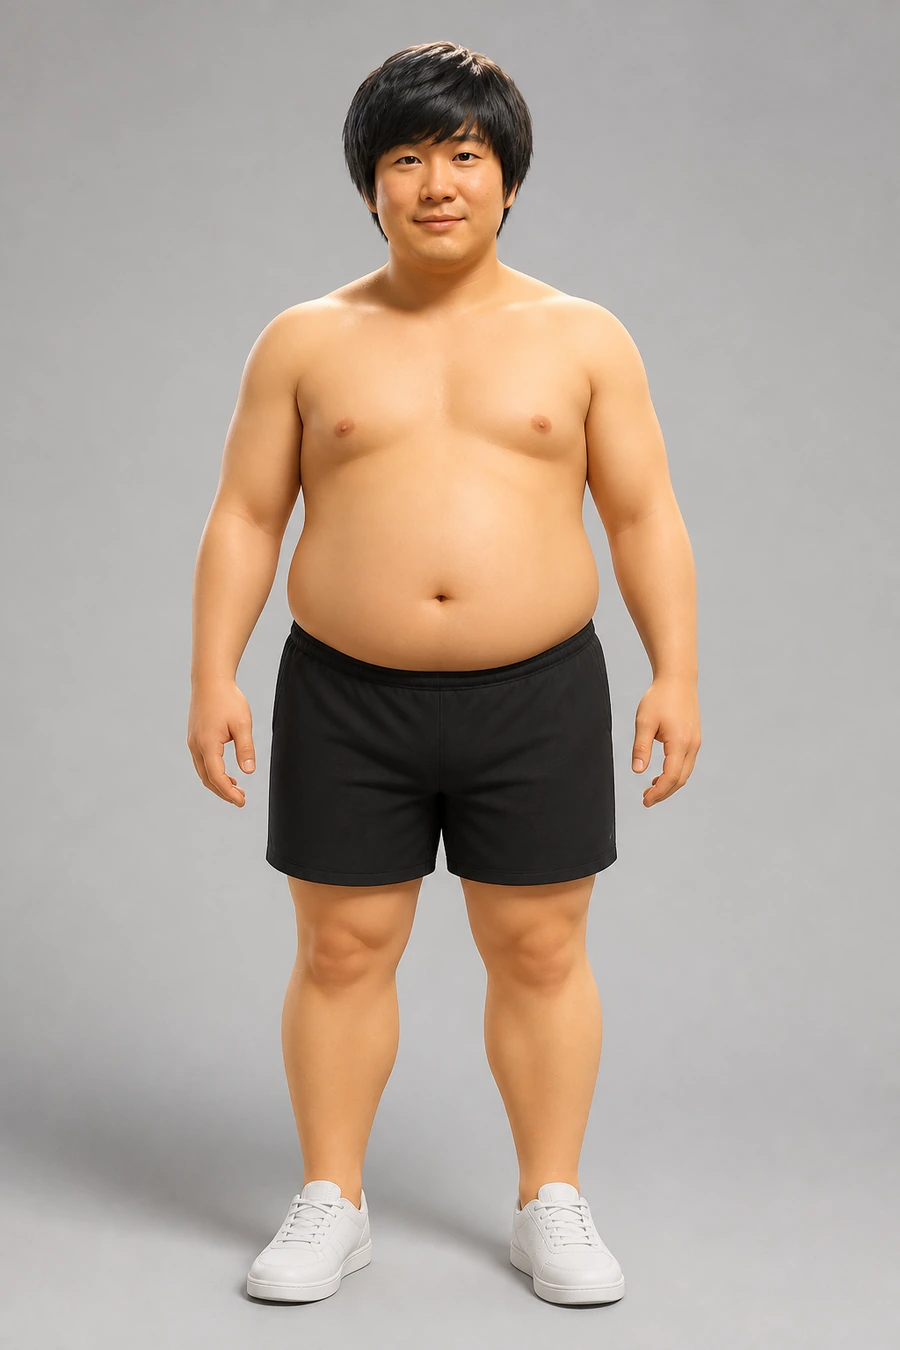
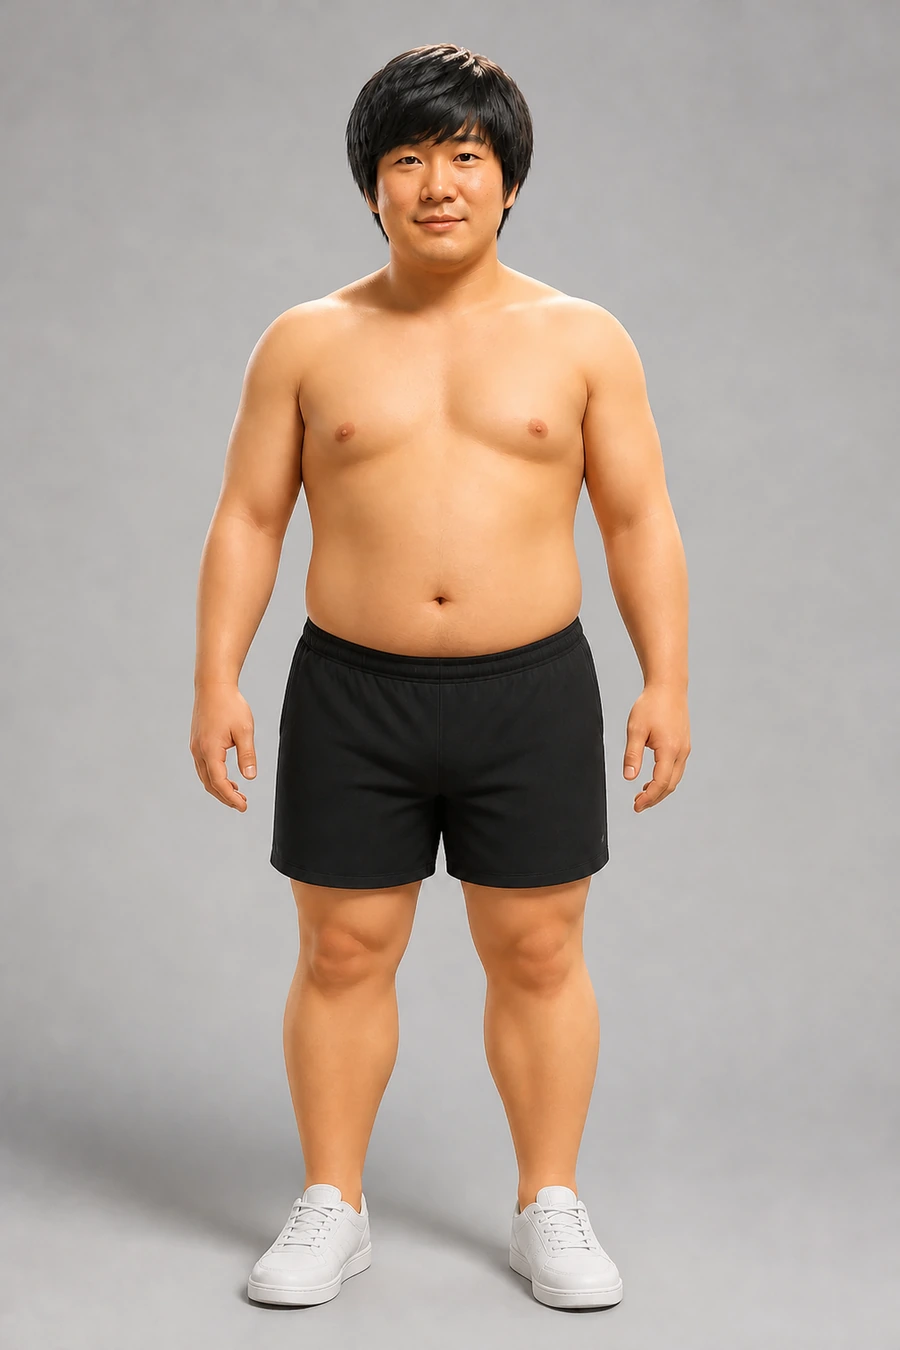
체형 이미지를 11/26 측정(85.6kg·29.2%) 기준으로 교체, 캐시 버전 갱신

diff --git a/index.html b/index.html
@@ -11,7 +11,7 @@
 <link rel="apple-touch-icon" href="assets/apple-touch-icon.png" />
 <meta name="apple-mobile-web-app-capable" content="yes" />
 <meta name="apple-mobile-web-app-status-bar-style" content="black-translucent" />
-<link rel="stylesheet" href="styles.css?v=68" />
+<link rel="stylesheet" href="styles.css?v=69" />
 </head>
 <body>
 <div class="app">
@@ -35,7 +35,7 @@
       <div class="stage" id="stage" data-phase="before">
         <div class="figure" id="figure">
           <img class="figure-ambient" src="assets/body-current.webp" alt="" aria-hidden="true" draggable="false" />
-          <img class="figure-img before" src="assets/body-current.webp" alt="9/21·10/26·11/26 체형 이미지" draggable="false" />
+          <img class="figure-img before" src="assets/body-current.webp" alt="11/26 실측 체형 이미지" draggable="false" />
           <img class="figure-img after" id="figure-goal" src="assets/body-goal.webp" alt="목표 체형 이미지" draggable="false" />
         </div>
         <div class="stage-overlay">
@@ -89,7 +89,7 @@
           <div class="compare-clip" id="compare-clip">
             <img class="compare-img before" src="assets/body-current.webp" alt="현재 체형 이미지" draggable="false" />
           </div>
-          <div class="compare-tag before" id="tag-before">비포 87.7kg <em>→</em></div>
+          <div class="compare-tag before" id="tag-before">비포 85.6kg <em>→</em></div>
           <div class="compare-tag after" id="tag-after"><em>←</em> 애프터 75.0kg</div>
           <div class="compare-handle" id="compare-handle"><span></span></div>
         </div>
@@ -166,6 +166,6 @@
 
 <div class="toast" id="toast"></div>
 
-<script type="module" src="app.js?v=68"></script>
+<script type="module" src="app.js?v=69"></script>
 </body>
 </html>

diff --git a/app.js b/app.js
@@ -5,8 +5,8 @@ import { MOVES } from './moves.js';
 
 const HEIGHT_CM = 176;
 const STORE_KEY = 'inbody3d.records.v1';
-const IMG_SOURCE_DATE = '2026-10-26'; // assets/body-current.webp 를 만든 측정일
-const IMG_SOURCE_SHORT = '10/26';
+const IMG_SOURCE_DATE = '2026-11-26'; // assets/body-current.webp 를 만든 측정일
+const IMG_SOURCE_SHORT = '11/26';
 
 const state = {
   mode: 'model',

diff --git a/sw.js b/sw.js
@@ -1,4 +1,4 @@
-const CACHE = 'inbody3d-v8';
+const CACHE = 'inbody3d-v9';
 const IMG = [
   './assets/body-current.webp',
   './assets/body-goal.webp',

diff --git a/README.md b/README.md
@@ -51,12 +51,12 @@ GitHub Pages: https://tommyoon007.github.io/inbody-3d/
 
 - 타임라인의 마지막 실측 기록까지는 `assets/body-current.webp`, 마지막 실측 → 목표 구간에서 `assets/body-goal.webp`가 슬라이더 값에 따라 opacity로 겹쳐집니다 (`app.js`의 `figureProgress()`).
 - 두 이미지는 같은 프레임(900×1350)으로 만들어져 있어 인물 위치가 일치하고, 그래서 크로스페이드가 자연스러운 변신처럼 보입니다.
-- 새 체형 이미지를 만들면 같은 크기(900×1350)·구도로 `assets/body-current.webp`(또는 `body-goal.webp`)를 교체하면 됩니다. 원본 PNG를 WebP로 바꾸려면 `python3 -c "from PIL import Image; Image.open('assets/body-current.png').save('assets/body-current.webp','WEBP',quality=92,method=6)"`.
+- 새 체형 이미지를 만들면 같은 크기(900×1350)·구도로 `assets/body-current.webp`(또는 `body-goal.webp`)를 교체하면 됩니다. 원본 PNG를 WebP로 바꾸려면 `python3 -c "from PIL import Image; Image.open('assets/body-current.png').save('assets/body-current.webp','WEBP',quality=92,method=6)"`. 이미지를 교체하면 `index.html`의 `styles.css`·`app.js` 쿼리 버전과 `sw.js`의 `CACHE` 버전을 올려 캐시를 무효화합니다.
 - 원본 `assets/body-current.png`·`body-goal.png`는 보관용(사이트는 WebP 사용, 두 파일 합계 약 2.6MB → WebP 약 130KB).
 
 ## 파일
 
-- `assets/body-current.webp` — 실측 체형 이미지 (10/26 측정 87.7kg · 29.9% 기준, 원본 `body-current.png`). 새 측정이 쌓여도 새 이미지를 만들기 전까지는 이 이미지를 그대로 씁니다.
+- `assets/body-current.webp` — 실측 체형 이미지 (11/26 측정 85.6kg · 29.2% 기준, 원본 `body-current.png`). 새 측정이 쌓여도 새 이미지를 만들기 전까지는 이 이미지를 그대로 씁니다.
 - `assets/body-goal.webp` — 목표 체형(75.0kg · 17.5%) 이미지 (원본 `body-goal.png`)
 - `index.html`, `app.js`, `styles.css` — 화면·변신 로직·스타일 (외부 라이브러리 없음)
 - `moves.js` — 운동 동작 일러스트 SVG 모음 (`app.js`에서 `import { MOVES }`)
